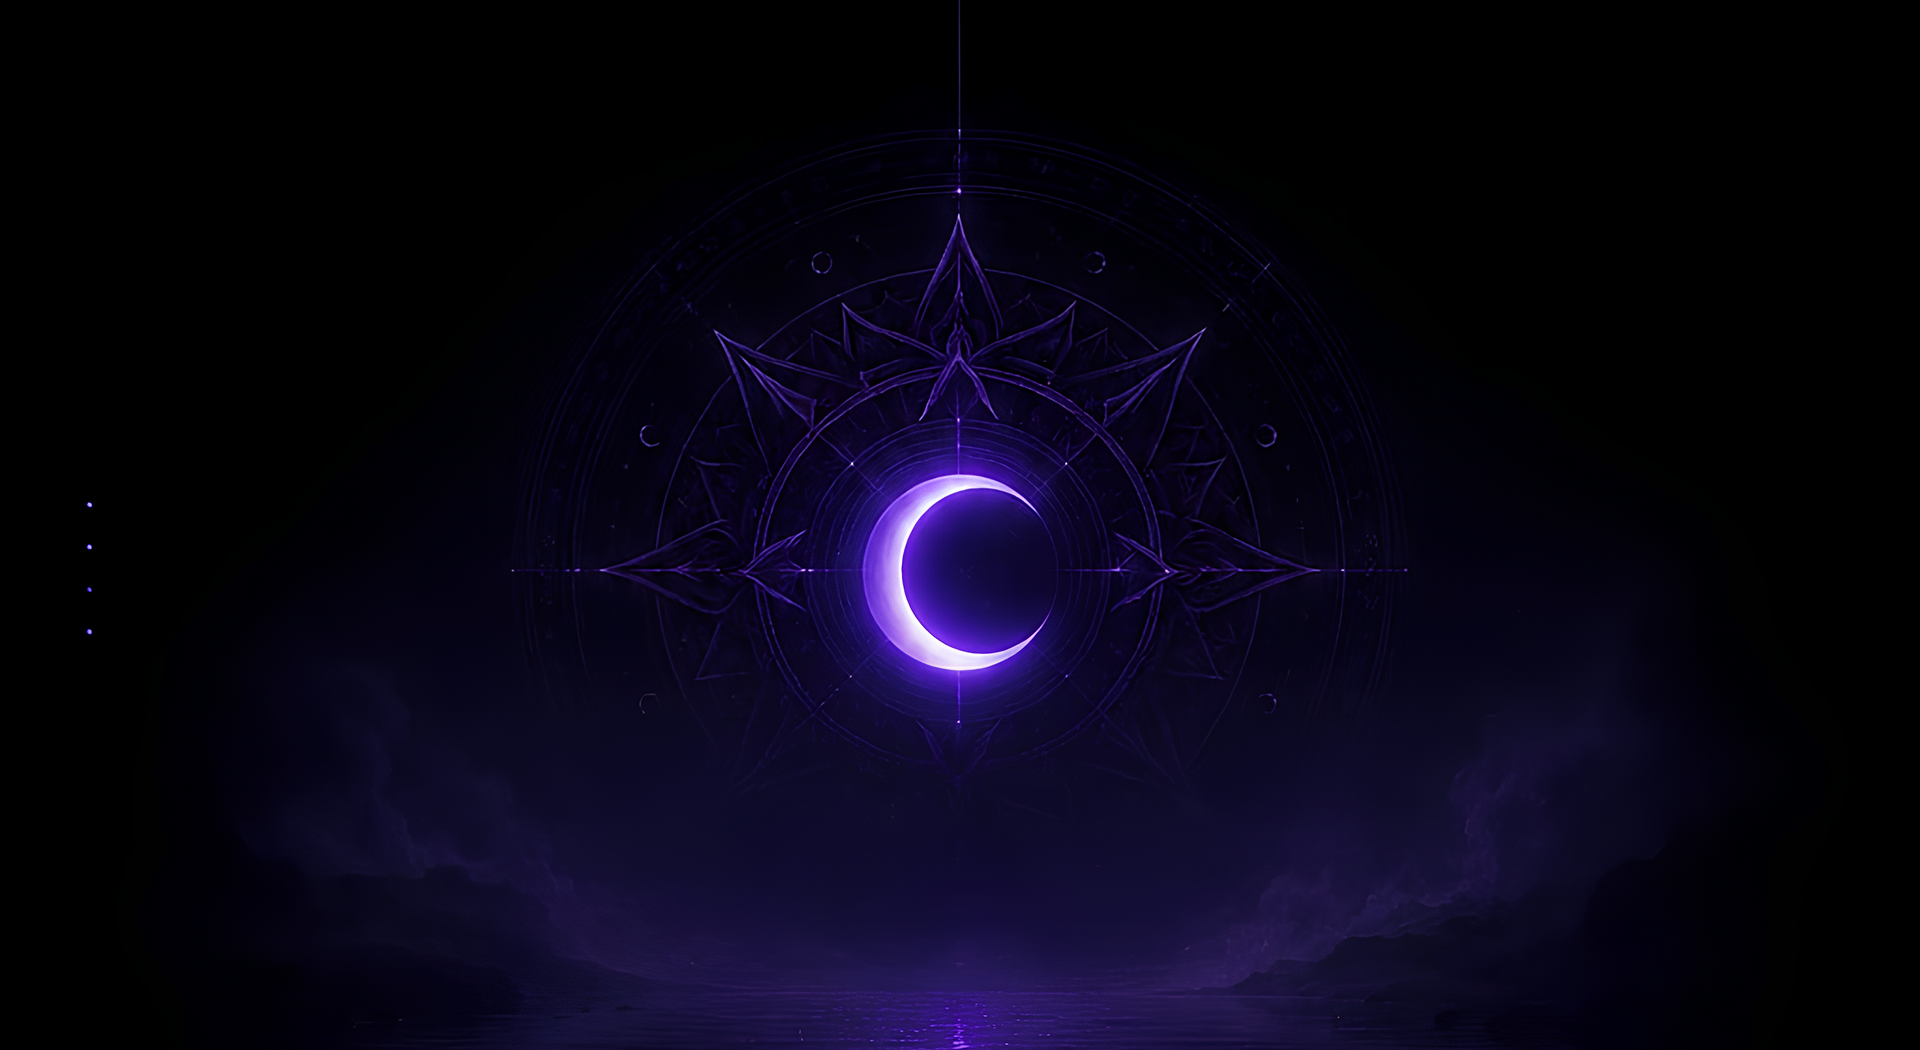
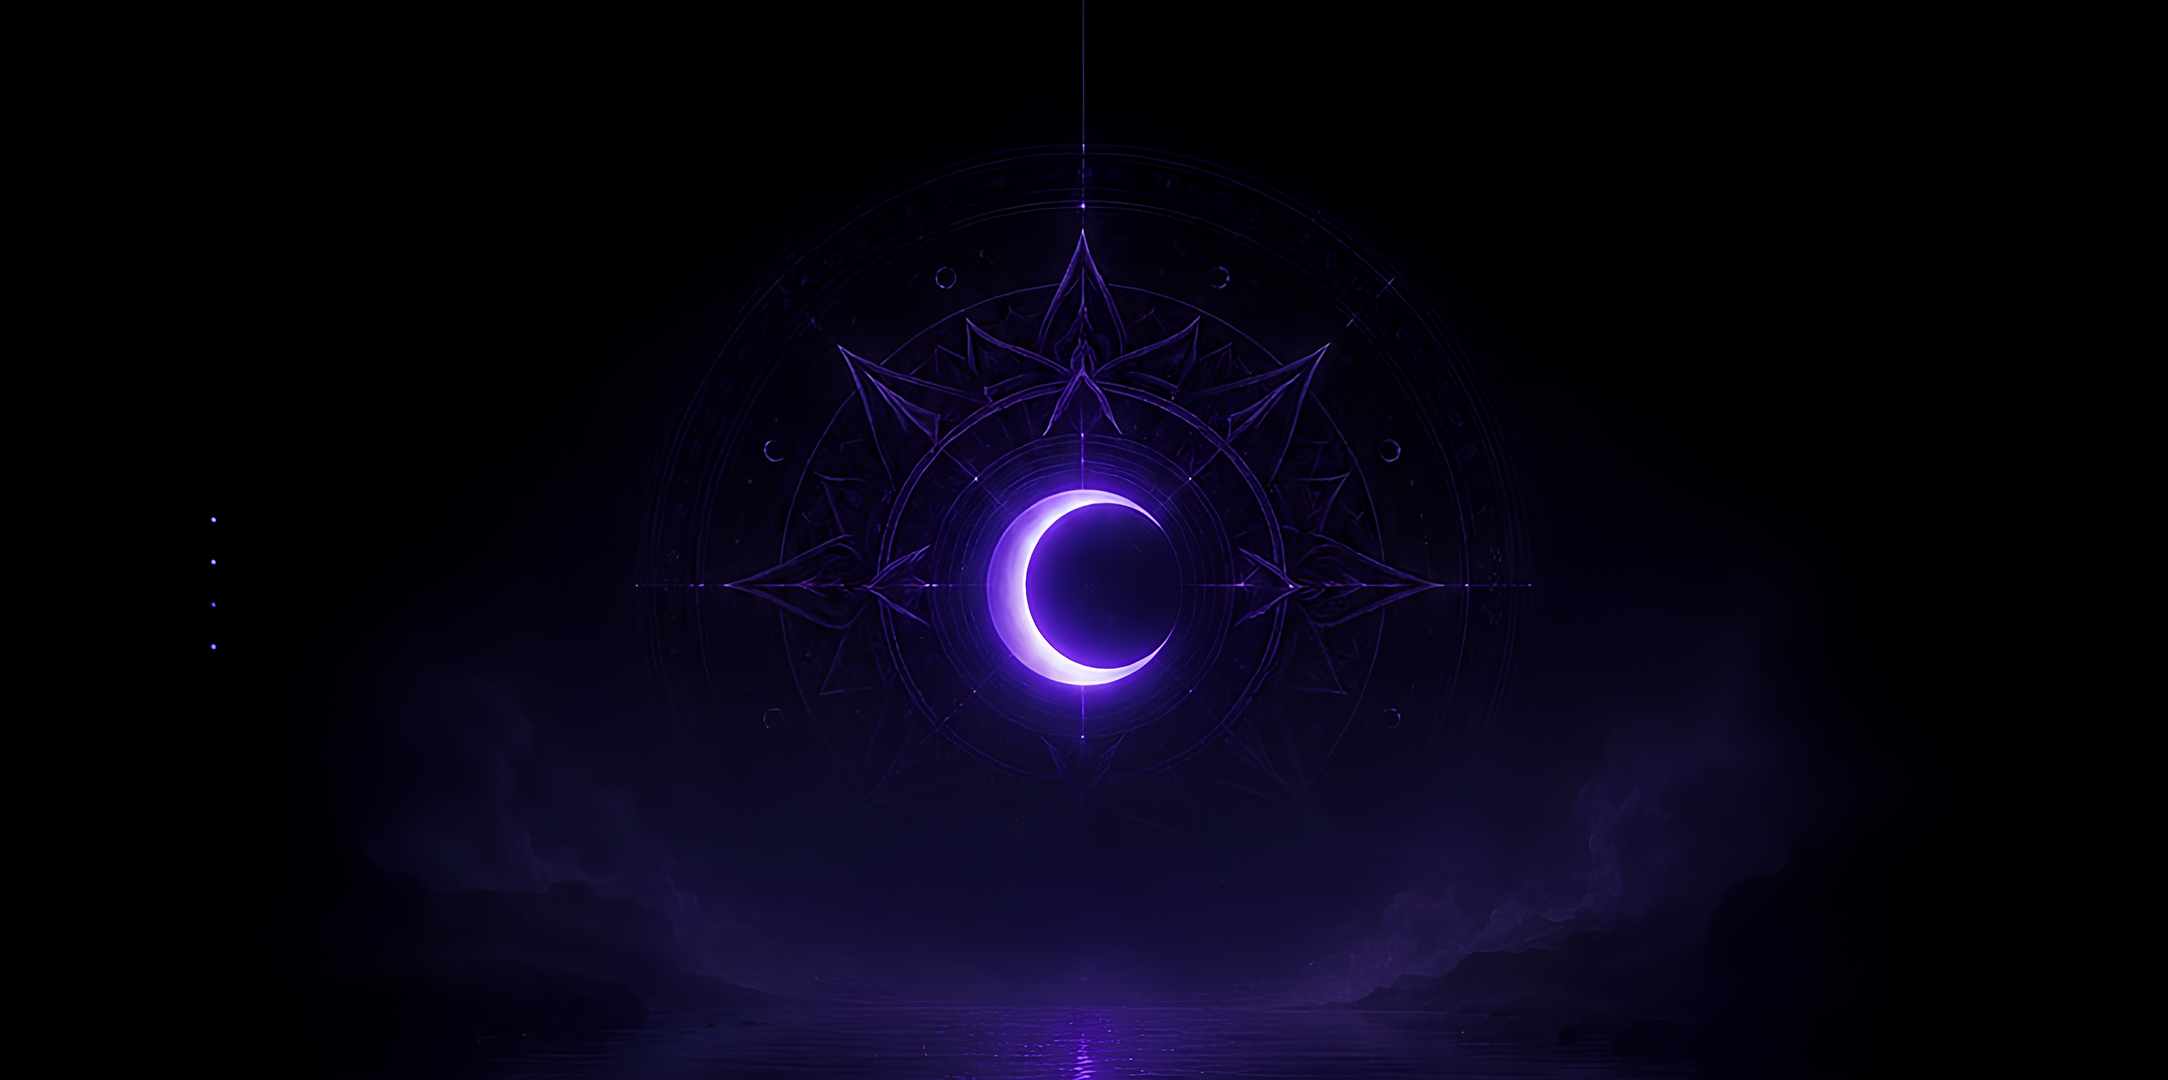
update

diff --git a/styles.css b/styles.css
@@ -54,8 +54,9 @@ html, body {
   position: absolute;
   inset: 0;
   z-index: 0;
-  background-image: url("BGLP.png");
+  background-image: url("BGLP.png?v=2");
   background-size: cover;
+
   background-position: center;
   background-repeat: no-repeat;
   filter: blur(28px) brightness(0.55) saturate(1.05);
@@ -73,8 +74,9 @@ html, body {
    canvas is filled by the viewport's blurred backdrop. */
 
 .canvas {
-  --design-w: 1920px;
-  --design-h: 1050px;   /* Slide 16:9 frame */
+  --design-w: 2168px;
+  --design-h: 1050px;   /* wide frame */
+
   position: relative;
   z-index: 1;           /* sit above the viewport's blurred backdrop */
 
@@ -82,7 +84,8 @@ html, body {
 
   width: var(--design-w);
   height: var(--design-h);
-  background: #FFFFFF;
+  background: #05020a;
+
   overflow: hidden;
   color: var(--text-violet);
   transform: scale(var(--scale, 1));
@@ -91,9 +94,10 @@ html, body {
 
 
 .archive-canvas {
-  --design-w: 1920px;
+  --design-w: 2168px;
   --design-h: 1050px;
 }
+
 
 
 
@@ -105,10 +109,12 @@ html, body {
   position: absolute;
   left: 0;
   top: 0;
-  width: 1920px;          /* exact BGLP.png size */
+  width: 2168px;          /* exact BGLP.png size */
   height: 1050px;         /* exact BGLP.png size */
-  background-image: url("BGLP.png");
+  background-image: url("BGLP.png?v=2");
+
   background-size: 100% 100%;
+
   background-position: center;
   background-repeat: no-repeat;
   z-index: 2;
@@ -344,8 +350,9 @@ html, body {
    ============================================================ */
 .drop-point {
   position: absolute;
-  left: 1688px;
+  left: 1936px;   /* re-pinned to the right edge of the 2168px canvas */
   top: 80px;
+
   width: 180.88px;
   height: 30px;
   z-index: 5;
@@ -400,8 +407,9 @@ html, body {
 /* AN ARCHIVE (Figma: left 805.02 top 906, 313x41) — thin violet glow */
 .title {
   position: absolute;
-  left: 805.02px;
+  left: 927.5px;          /* re-centered on the 2168px canvas */
   top: 876px;             /* nudged up a little */
+
   width: 313px;
 
   height: 41px;
@@ -418,8 +426,9 @@ html, body {
 /* EXPLORING THE DEPTHS OF HUMANITY (Figma: left 699 top 961.31, 522x23) */
 .subtitle {
   position: absolute;
-  left: 699px;
+  left: 823px;            /* re-centered on the 2168px canvas */
   top: 931.31px;          /* nudged up a little */
+
   width: 522px;
 
   height: 23px;
@@ -447,8 +456,9 @@ html, body {
 /* Circle sitting right on the moon (Ellipse 14: left 863 top 460, 195x195) */
 .portal {
   position: absolute;
-  left: 863px;
+  left: 986.5px;          /* re-centered on the 2168px canvas */
   top: 460px;
+
   width: 195px;
   height: 195px;
   transform: none;
@@ -789,8 +799,9 @@ html, body {
 /* --- Navigation button (Group 2: left 1773, top 725.49 -> 593) --- */
 .arc-nav {
   position: absolute;
-  left: 1773px;
+  left: 2021px;           /* re-pinned to the right edge of the 2168px canvas */
   top: 593px;             /* 725.49 - 132.49 */
+
   width: 69.84px;         /* Figma size */
   height: 69.84px;
 
@@ -1026,13 +1037,25 @@ html, body {
    layout that adapts to any device.
    ============================================================ */
 
-/* Let the page scroll when it has reflowed to a mobile layout */
+/* Let the page scroll when it has reflowed to a mobile layout.
+   Two selector sets are provided for maximum browser coverage:
+     1. .reflow-active — a class script.js adds to <html>; works in
+        every browser (the reliable primary path).
+     2. :has(.canvas.reflow) — a progressive enhancement for
+        browsers that support :has(); harmless where they don't. */
+html.reflow-active,
+html.reflow-active body {
+  overflow-x: hidden;
+  overflow-y: auto;
+  height: auto;
+}
 html:has(.canvas.reflow),
 body:has(.canvas.reflow) {
   overflow-x: hidden;
   overflow-y: auto;
   height: auto;
 }
+html.reflow-active .viewport,
 .viewport:has(.canvas.reflow) {
   position: static;
   display: block;
@@ -1078,12 +1101,12 @@ body:has(.canvas.reflow) {
   text-align: center;
 }
 
-/* Brand pinned top-left, laid out inline */
+/* Brand pinned top-left, laid out inline (respects notch safe area) */
 .canvas.reflow .brand {
   position: fixed;
   inset: auto;
-  top: 2.5vh;
-  left: 6vw;
+  top: calc(2.5vh + env(safe-area-inset-top, 0px));
+  left: calc(6vw + env(safe-area-inset-left, 0px));
   z-index: 10;
   display: flex;
   align-items: center;
@@ -1104,12 +1127,12 @@ body:has(.canvas.reflow) {
   font-size: 15px;
 }
 
-/* Drop point pinned top-right */
+/* Drop point pinned top-right (respects notch safe area) */
 .canvas.reflow .drop-point {
   position: fixed;
   left: auto;
-  right: 6vw;
-  top: 3vh;
+  right: calc(6vw + env(safe-area-inset-right, 0px));
+  top: calc(3vh + env(safe-area-inset-top, 0px));
   z-index: 10;
 }
 .canvas.reflow .drop-dot {
@@ -1190,8 +1213,8 @@ body:has(.canvas.reflow) {
   position: fixed;
   left: auto;
   top: auto;
-  right: 6vw;
-  bottom: 4vh;
+  right: calc(6vw + env(safe-area-inset-right, 0px));
+  bottom: calc(4vh + env(safe-area-inset-bottom, 0px));
   z-index: 12;
 }
 

diff --git a/script.js b/script.js
@@ -41,13 +41,20 @@
       "(max-width: 820px), (orientation: portrait), (max-height: 480px)"
     );
 
+    // Root element gets a matching flag so the CSS can switch the
+    // page into its scrollable mobile layout WITHOUT relying on the
+    // :has() selector (which older Safari / Firefox don't support).
+    var root = document.documentElement;
+
     function applyScale() {
       if (reflowMQ.matches) {
         stageCanvas.classList.add("reflow");
+        root.classList.add("reflow-active");
         stageCanvas.style.removeProperty("--scale");
         return;
       }
       stageCanvas.classList.remove("reflow");
+      root.classList.remove("reflow-active");
       var d = designSize();
       // Contain scale: the smaller of the two ratios guarantees the
       // whole canvas fits inside the viewport (no cropping) without

diff --git a/archive.html b/archive.html
@@ -2,7 +2,8 @@
 <html lang="en">
 <head>
   <meta charset="UTF-8" />
-  <meta name="viewport" content="width=device-width, initial-scale=1.0" />
+  <meta name="viewport" content="width=device-width, initial-scale=1.0, viewport-fit=cover" />
+  <meta name="theme-color" content="#05020a" />
   <meta name="description" content="Fukaimori — An Archive. Exploring the depths of humanity." />
   <title>Fukaimori · Archive</title>
   <link rel="preconnect" href="https://fonts.googleapis.com" />

diff --git a/index.html b/index.html
@@ -2,7 +2,8 @@
 <html lang="en">
 <head>
   <meta charset="UTF-8" />
-  <meta name="viewport" content="width=device-width, initial-scale=1.0" />
+  <meta name="viewport" content="width=device-width, initial-scale=1.0, viewport-fit=cover" />
+  <meta name="theme-color" content="#05020a" />
   <meta name="description" content="Fukaimori — An Archive. Exploring the depths of humanity." />
   <title>Fukaimori · An Archive</title>
   <link rel="preconnect" href="https://fonts.googleapis.com" />